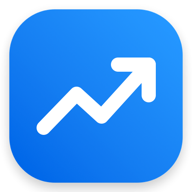
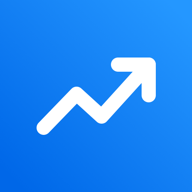
Launch ETT Trading Journal PWA

Changed region(s): [[0.0, 0.0, 1.0, 1.0]]

diff --git a/index.html b/index.html
@@ -16,7 +16,7 @@
     <meta name="description" content="ETT professional trading journal" />
     <link rel="manifest" href="./manifest.webmanifest" />
     <link rel="icon" href="./icon.svg" type="image/svg+xml" />
-    <link rel="apple-touch-icon" href="./apple-touch-icon.png" />
+    <link rel="apple-touch-icon" sizes="180x180" href="./apple-touch-icon-v2.png" />
     <title>ETT Trading Journal</title>
   </head>
   <body>

diff --git a/public/sw.js b/public/sw.js
@@ -1,9 +1,10 @@
-const CACHE = "ett-v2-safe-area";
+const CACHE = "ett-v3-full-icon";
 const CORE = [
   "./",
   "./manifest.webmanifest",
   "./icon-192.png",
   "./icon-512.png",
+  "./apple-touch-icon-v2.png",
 ];
 self.addEventListener("install", (event) =>
   event.waitUntil(
